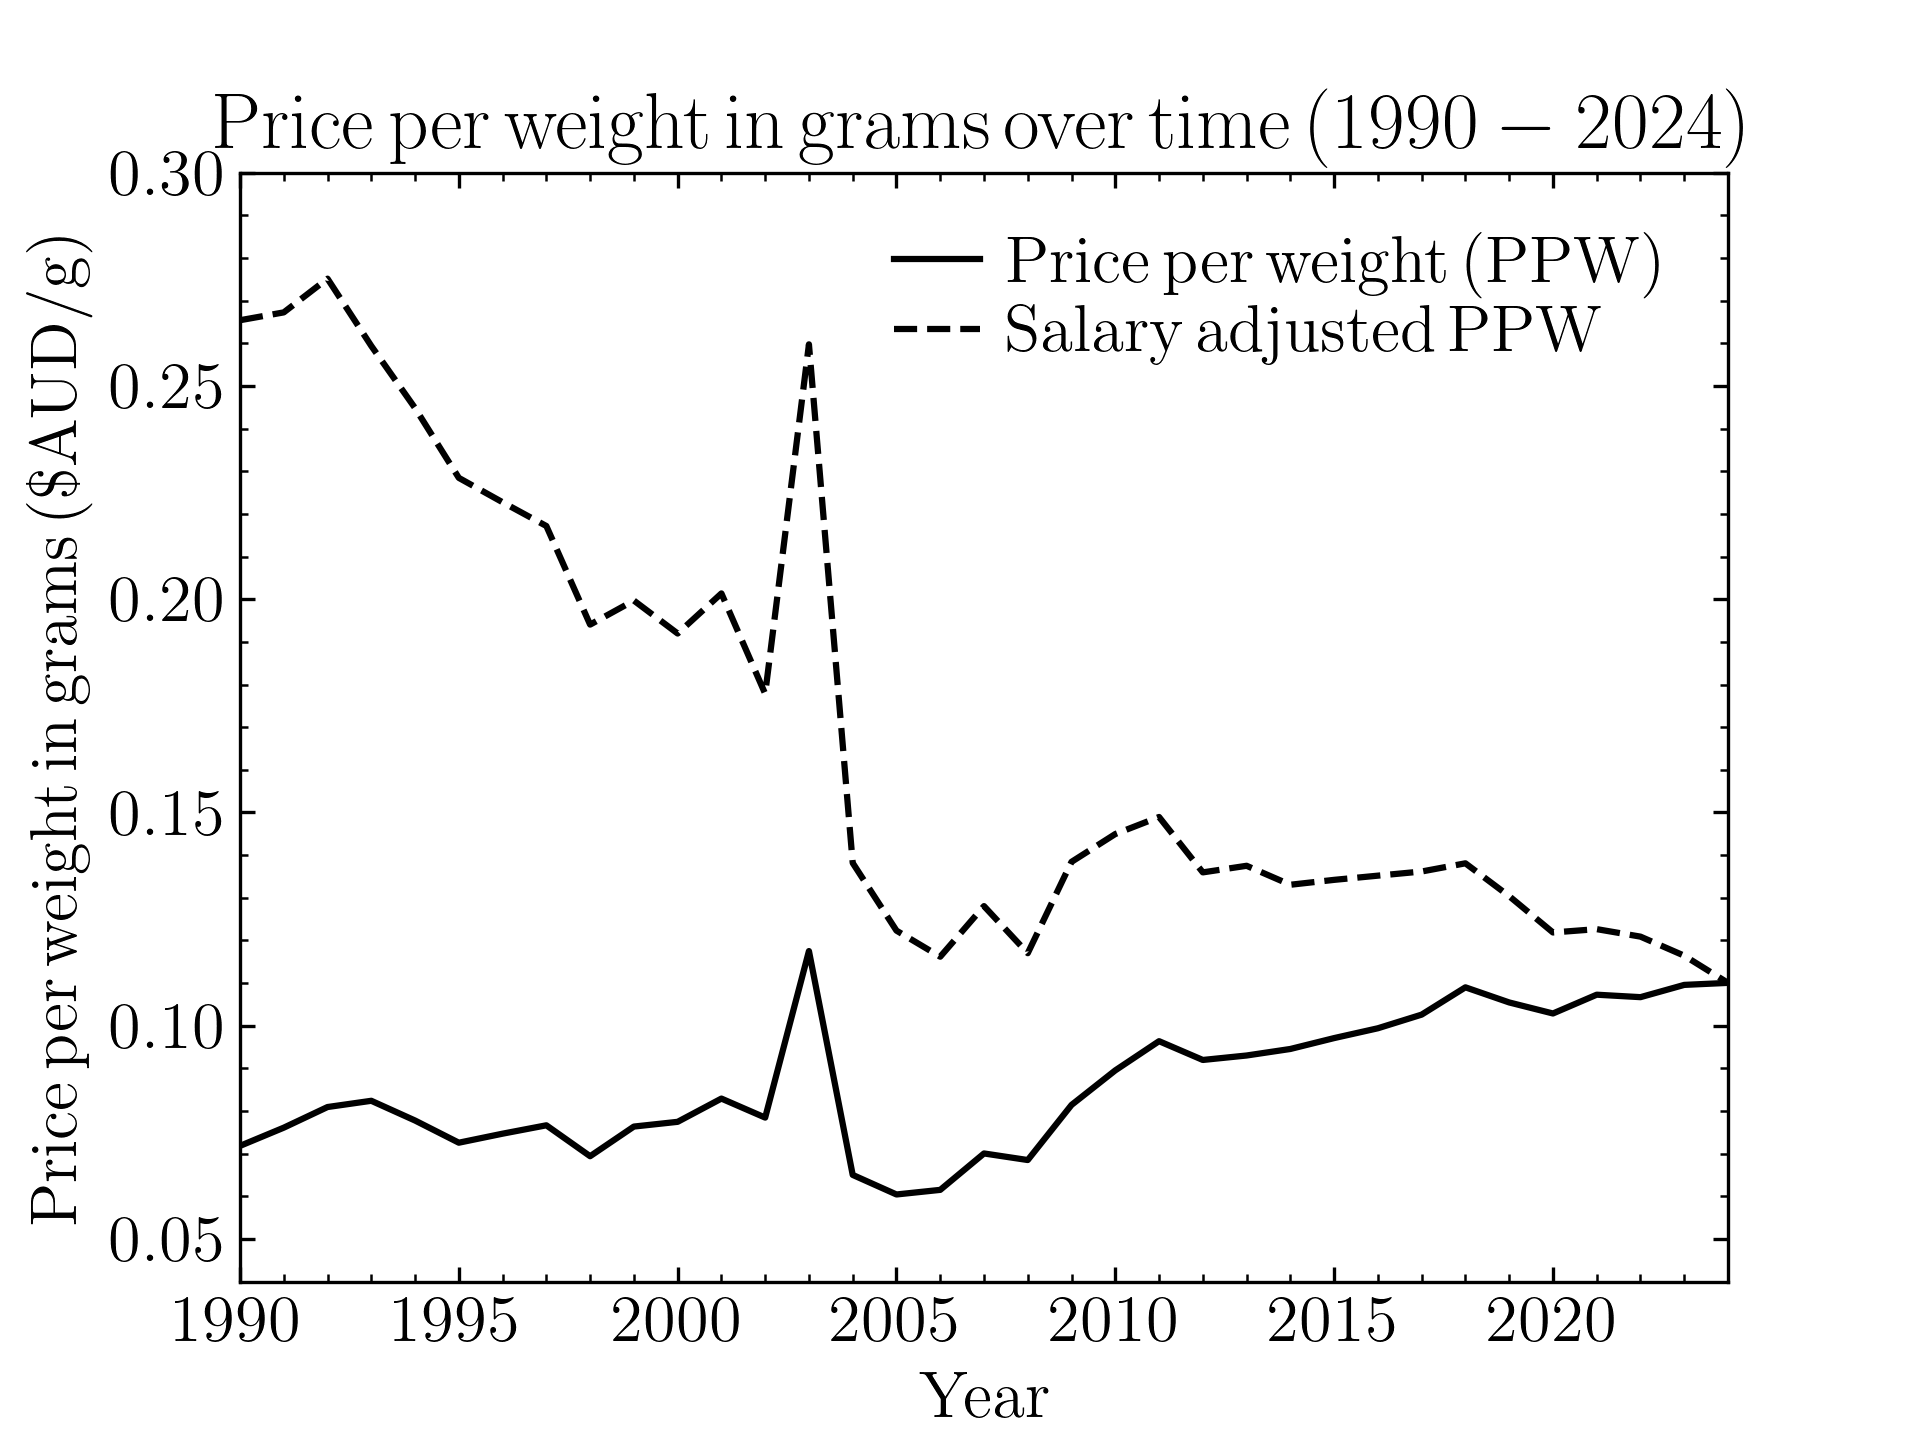
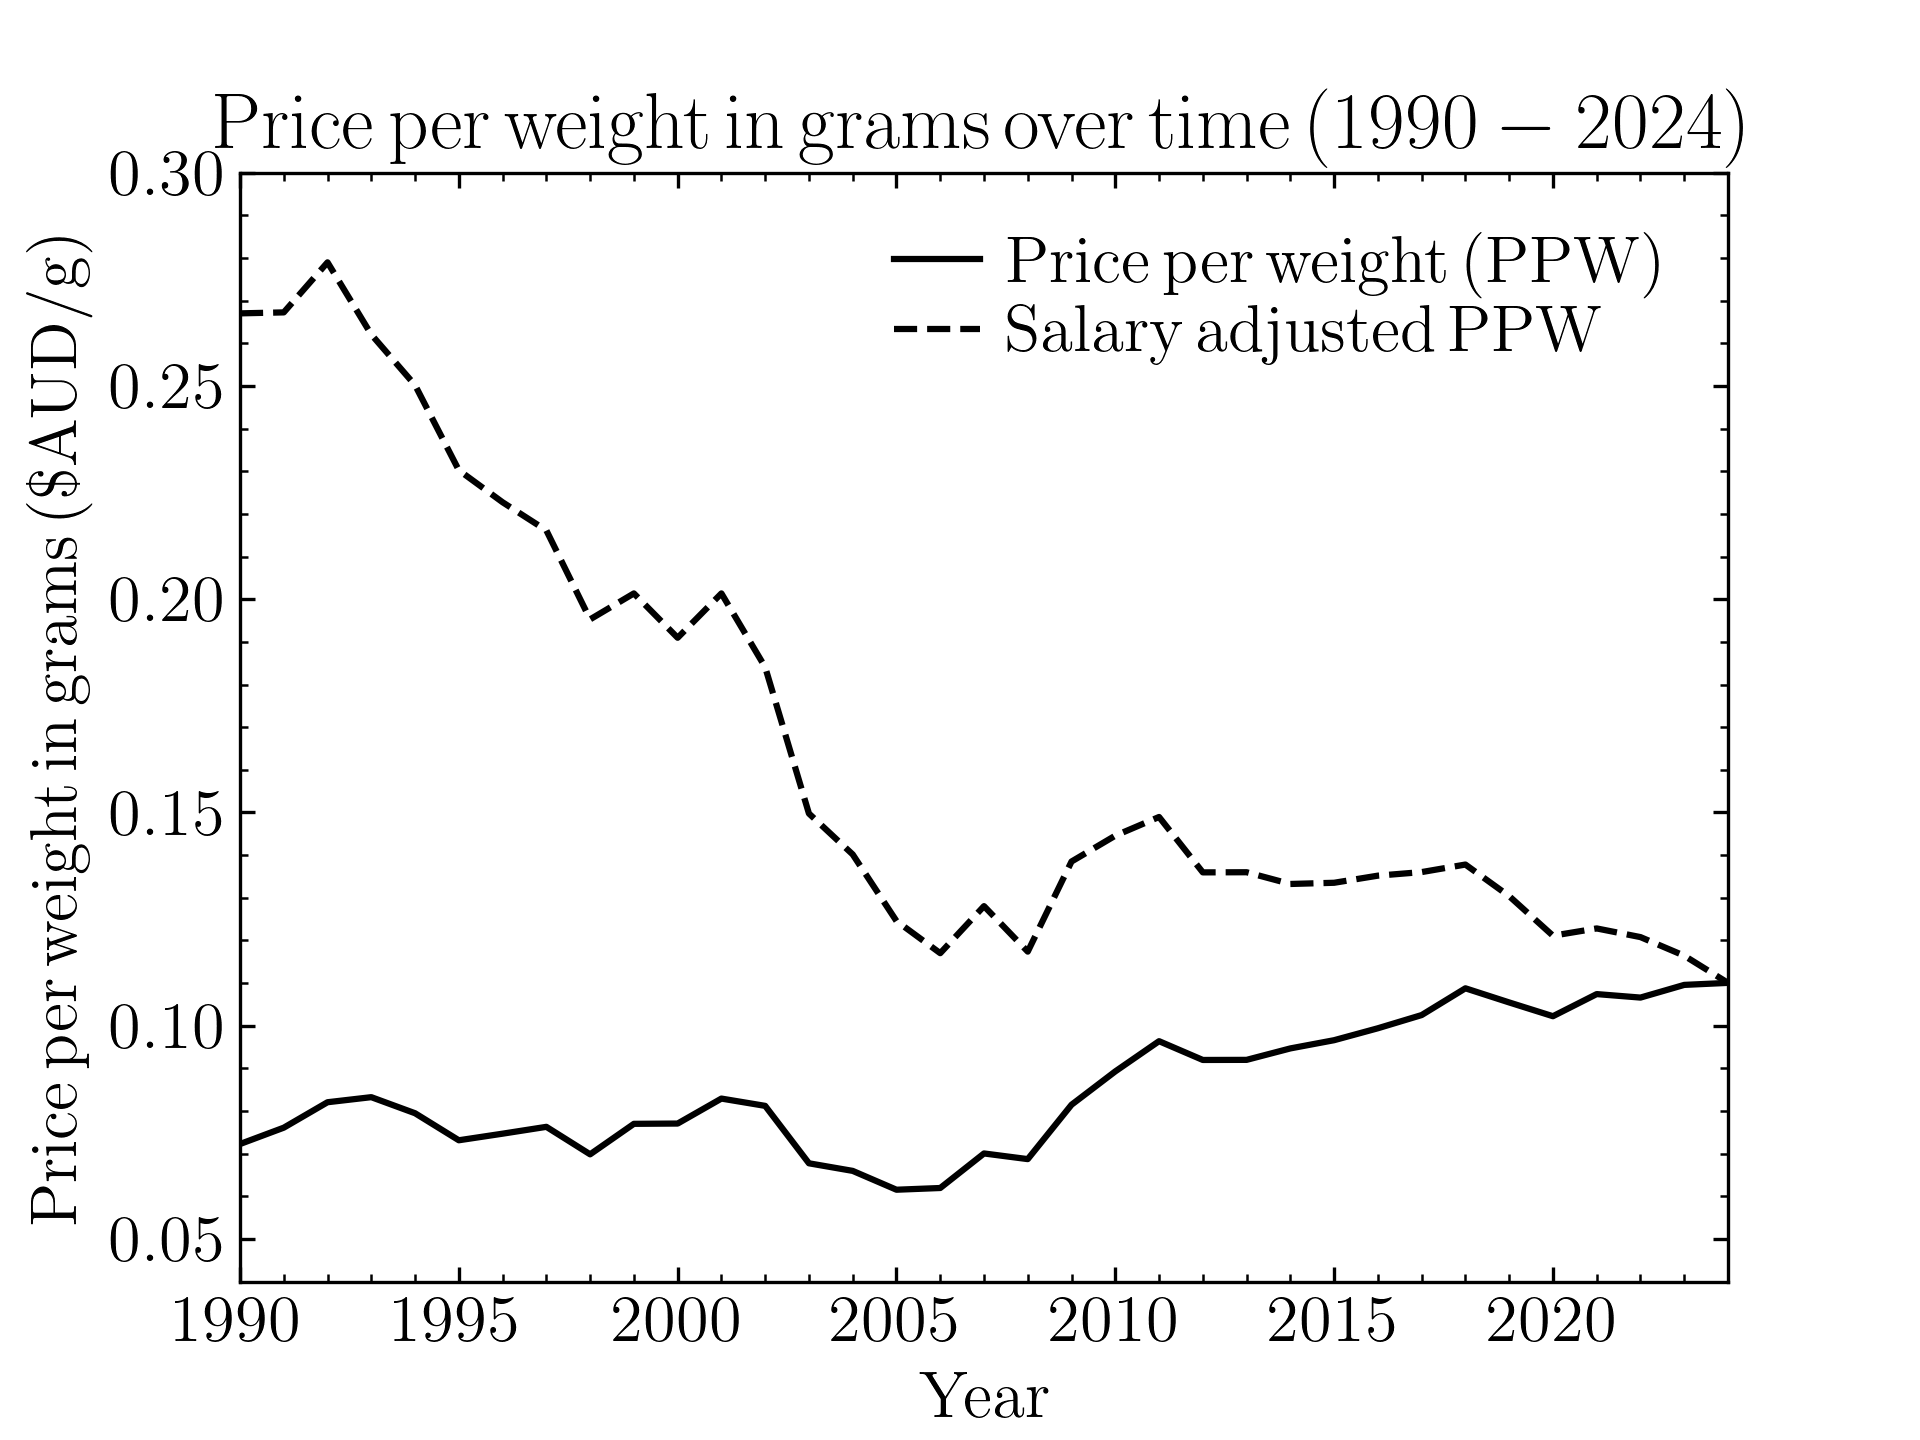
Update figures

diff --git a/docs/index.md b/docs/index.md
@@ -107,7 +107,7 @@ However, if we use the set weight instead, this normalises for piece size. A set
 
 To investigate whether LEGO has gotten more expensive over time, we need to calculate our chosen metrics as a function of LEGO set release year. As outlined earlier, I chose the price per piece (PPP) and price per weight in grams (PPW) as the two metrics for completeness. Although, remember that the PPW is the better metric. 
 
-<img src="https://github.com/BradGreig/LEGO-analysis/blob/main/data/PPP_per_year.png?raw=true" alt="PPP over time" width="465"/> <img src="https://github.com/BradGreig/LEGO-analysis/blob/main/data/PPP_per_year.png?raw=true" alt="PPW over time" width="465"/> 
+<img src="https://github.com/BradGreig/LEGO-analysis/blob/main/data/PPP_per_year.png?raw=true" alt="PPP over time" width="465"/> <img src="https://github.com/BradGreig/LEGO-analysis/blob/main/data/PPW_per_year.png?raw=true" alt="PPW over time" width="465"/> 
 *<small>Evolution in the the price per piece (PPP) or the price per weight in grams (PPW) determined over 35 years of LEGO pricing information. The solid black curve is the determine PPP or PPW whereas the dashed black curve is corrected for historical inflation.</small>*
 
 Above, the two solid black curves are the mean PPP and PPW as a function of year for the 35 years of LEGO pricing information that I selected. Using the raw data, the price per piece (left panel) is fairly stable over time. For the price per weight (right panel) there is a very slight increase over 35 years, but nothing overly substantial.
@@ -115,6 +115,10 @@ Above, the two solid black curves are the mean PPP and PPW as a function of year
 However, using the raw pricing data over 35 years is not a true representation of the story. We need to take into account inflation, adjusting the price of LEGO over the years to account for the increase of goods and services over time. To estimate the impact of inflation I have chosen to use historical median weekly salary data. The reason for using this is that the cost of LEGO relative to salary data to me is a better representation of how expensive something is. That is, a $100 set in 1990 is a bigger hit to the hip pocket than a $100 set in 2024 owing to the increase in weekly salaries over 35 years (which are supposed to grow in proportion to inflation).
 
 The inflation corrected PPP and PPW are provided by the black dashed curve in the figure above. **These both conclusively show that over time both the PPP and PPW are decreasing with time. Therefore, according to PPP and PPW metrics, LEGO is cheaper than it has ever been!**
+
+### But is that the end of the story?
+
+
 
 ## Is their a noticeable premium paid on licensed sets?
 
